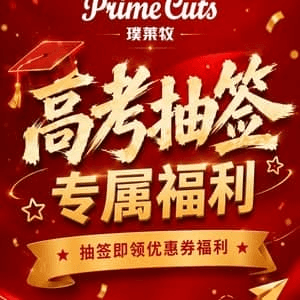
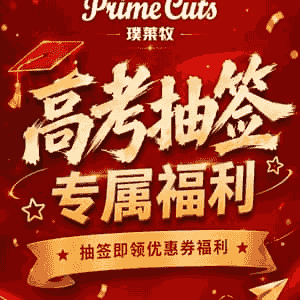
压缩微信分享根目录图片

diff --git a/src/App.test.js b/src/App.test.js
@@ -130,7 +130,7 @@ describe('P1 activity home', () => {
 
   it('provides a root share cover image for WeChat card crawling', () => {
     expect(readPngSize('public/share-cover.png')).toEqual({ width: 300, height: 300 })
-    expect(fileSizeKb('public/share-cover.png')).toBeLessThan(100)
+    expect(fileSizeKb('public/share-cover.png')).toBeLessThan(50)
   })
 
   it('configures a default WeChat timeline card before users tap in-page share actions', async () => {
